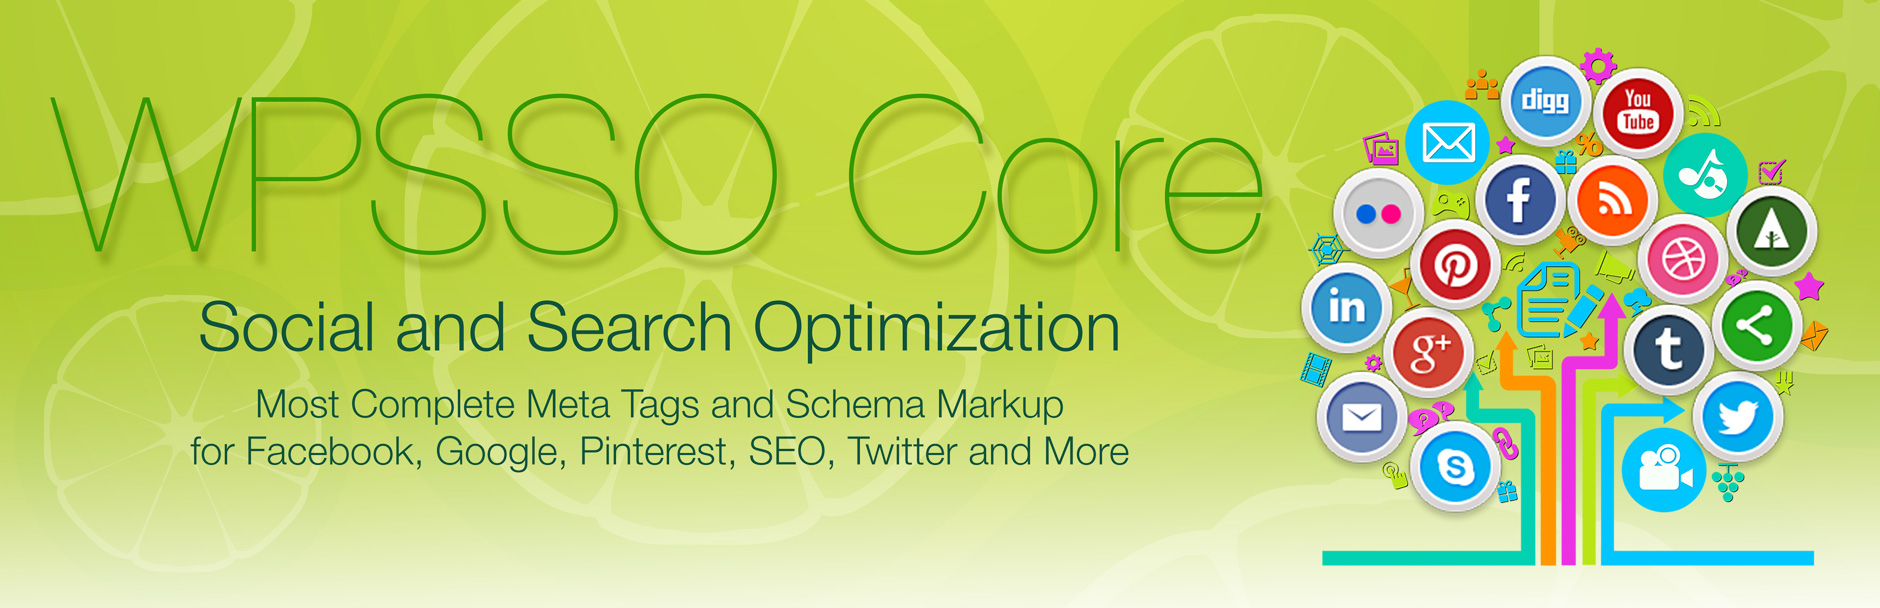
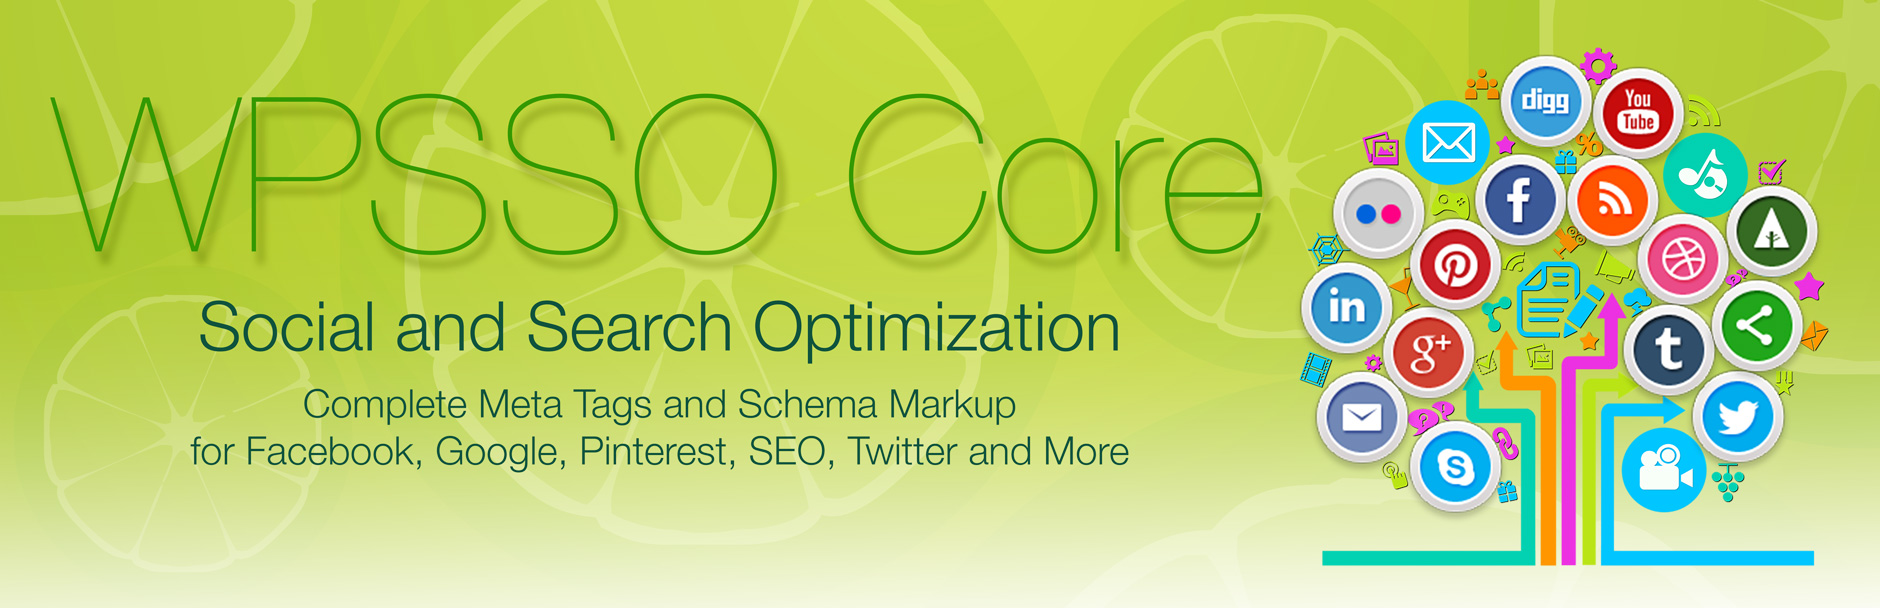
non-essential support files (documentation and assets)

Changed region(s): [[0.1234, 0.625, 0.5862, 0.6875]]

diff --git a/index.html b/index.html
@@ -25,7 +25,7 @@
         </ul>
       </header>
       <section>
-<h1>WPSSO Core</h1><h3>Most Complete Meta Tags and Schema Markup for Facebook, Google, Pinterest, SEO, Twitter and More</h3>
+<h1>WPSSO Core</h1><h3>Complete Meta Tags and Schema Markup for Facebook, Google, Pinterest, SEO, Twitter and More</h3>
 
 <table>
 <tr><th align="right" valign="top" nowrap>Plugin Name</th><td>WPSSO Core [Main Plugin]</td></tr>
